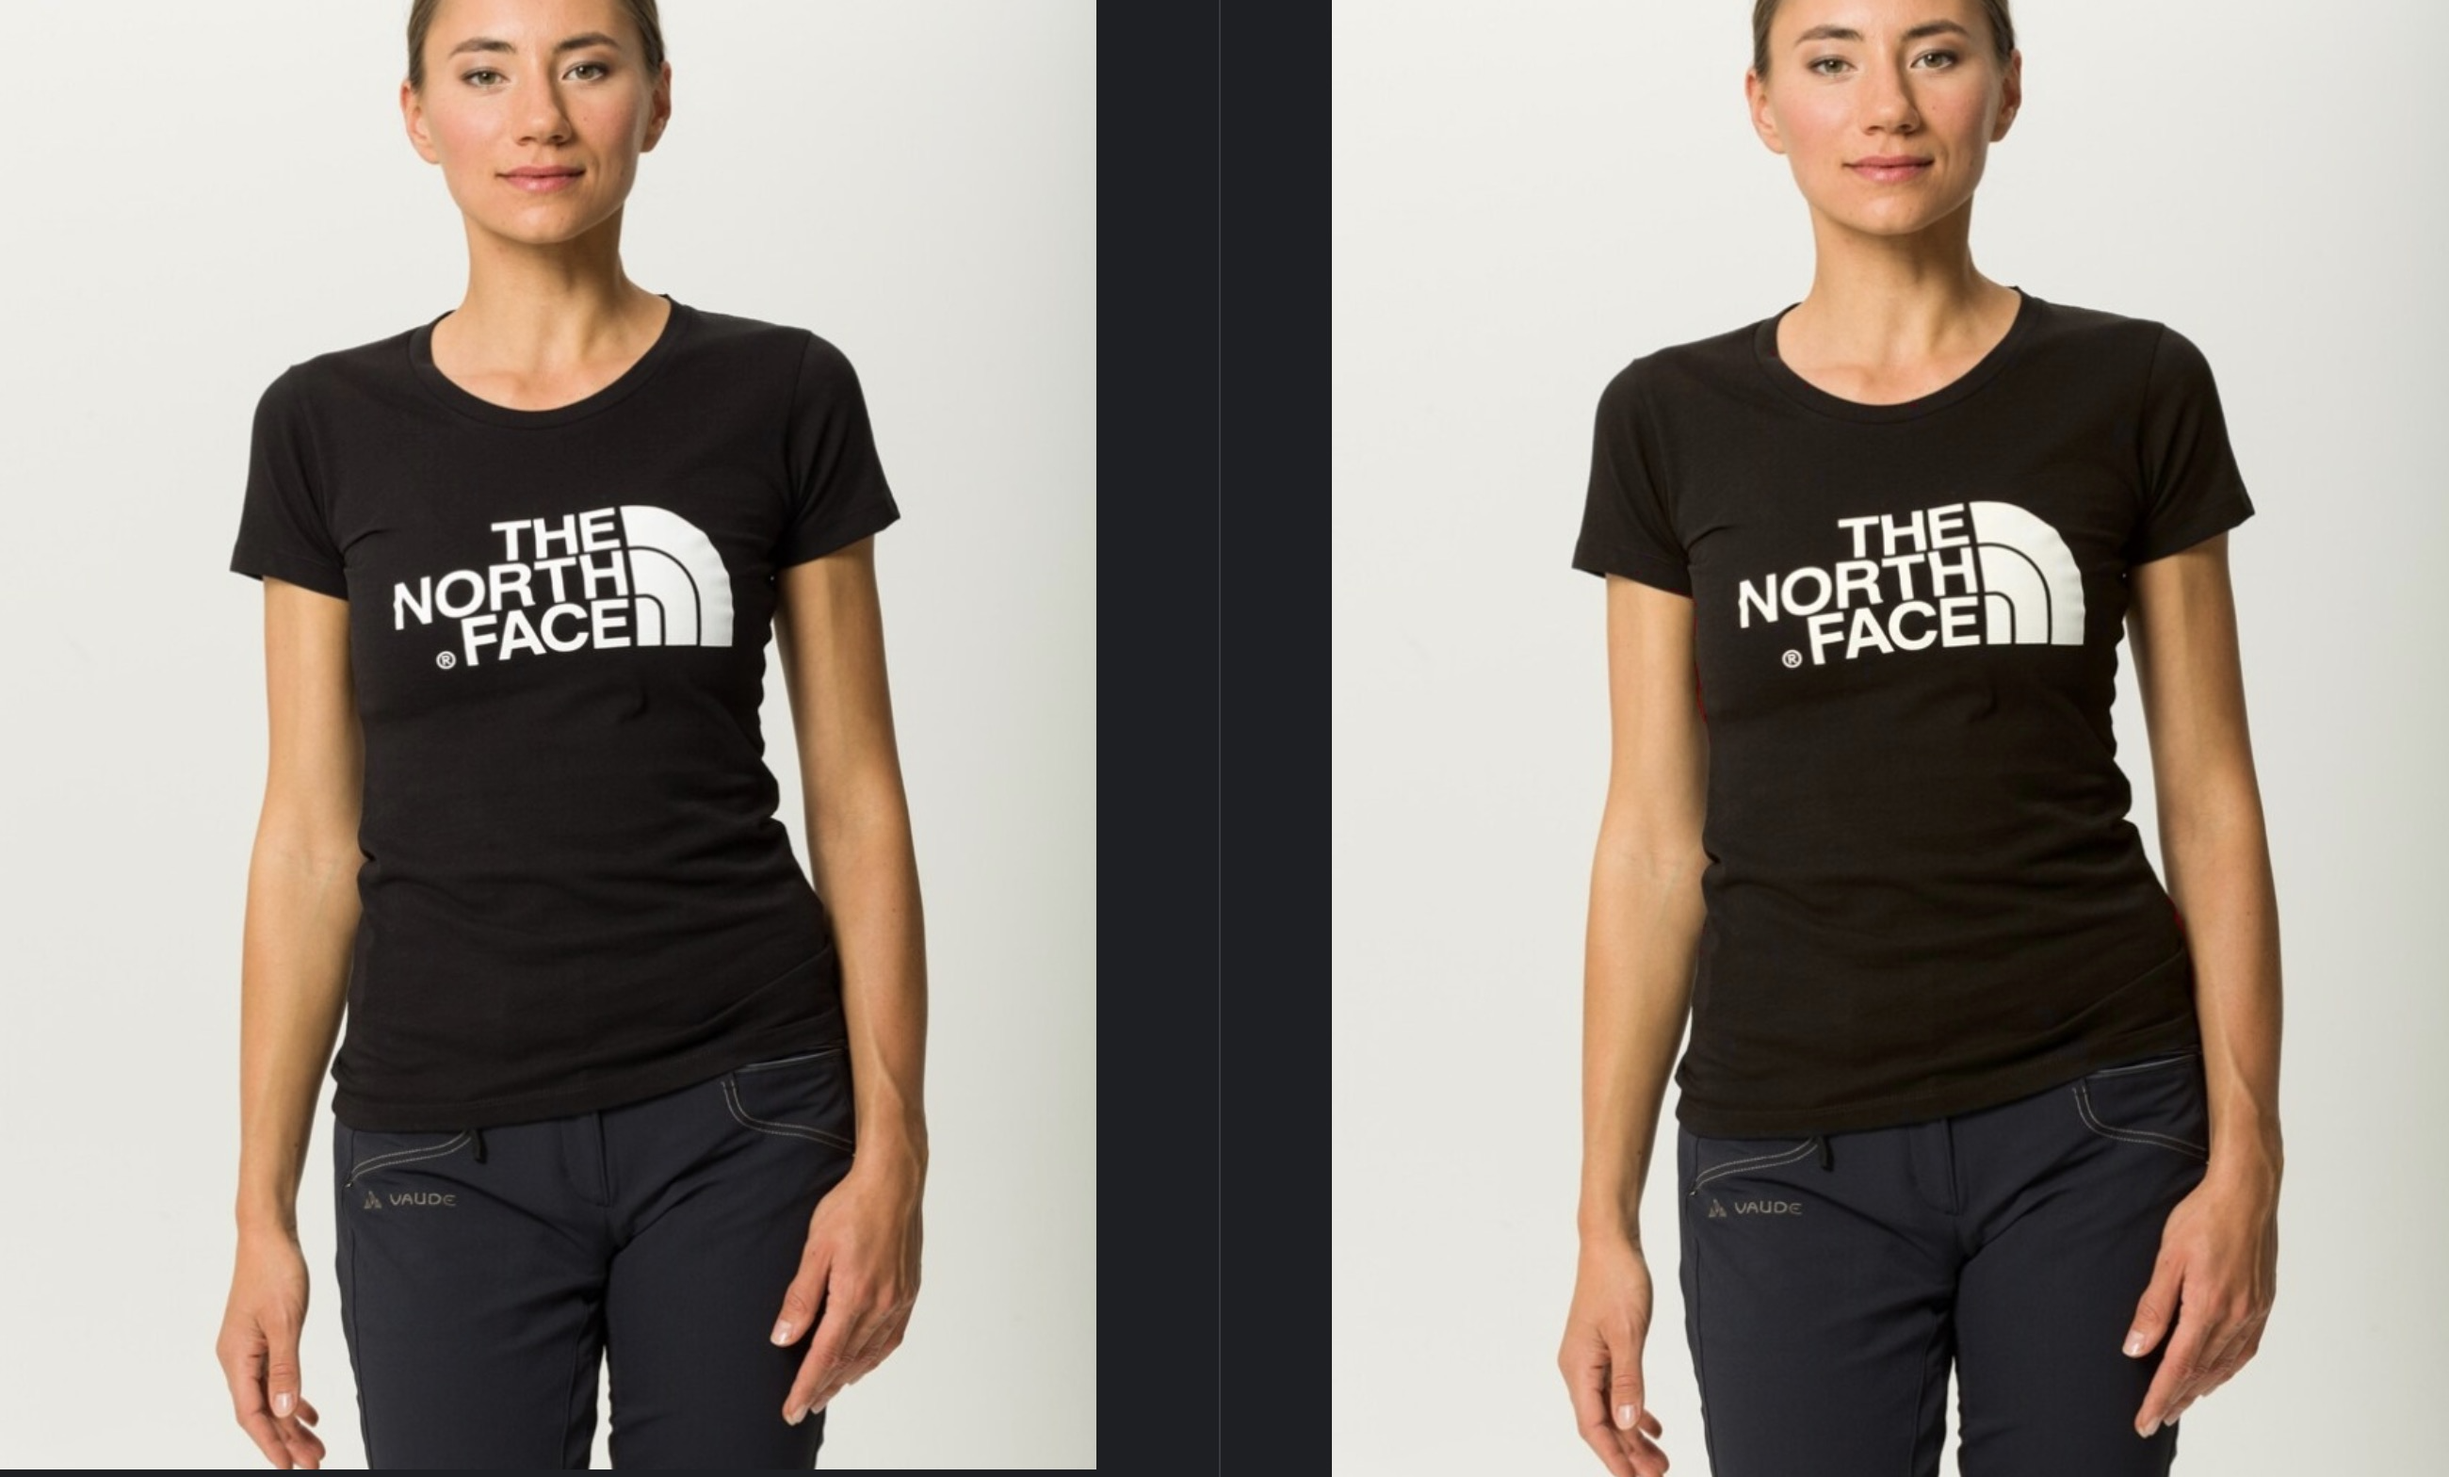
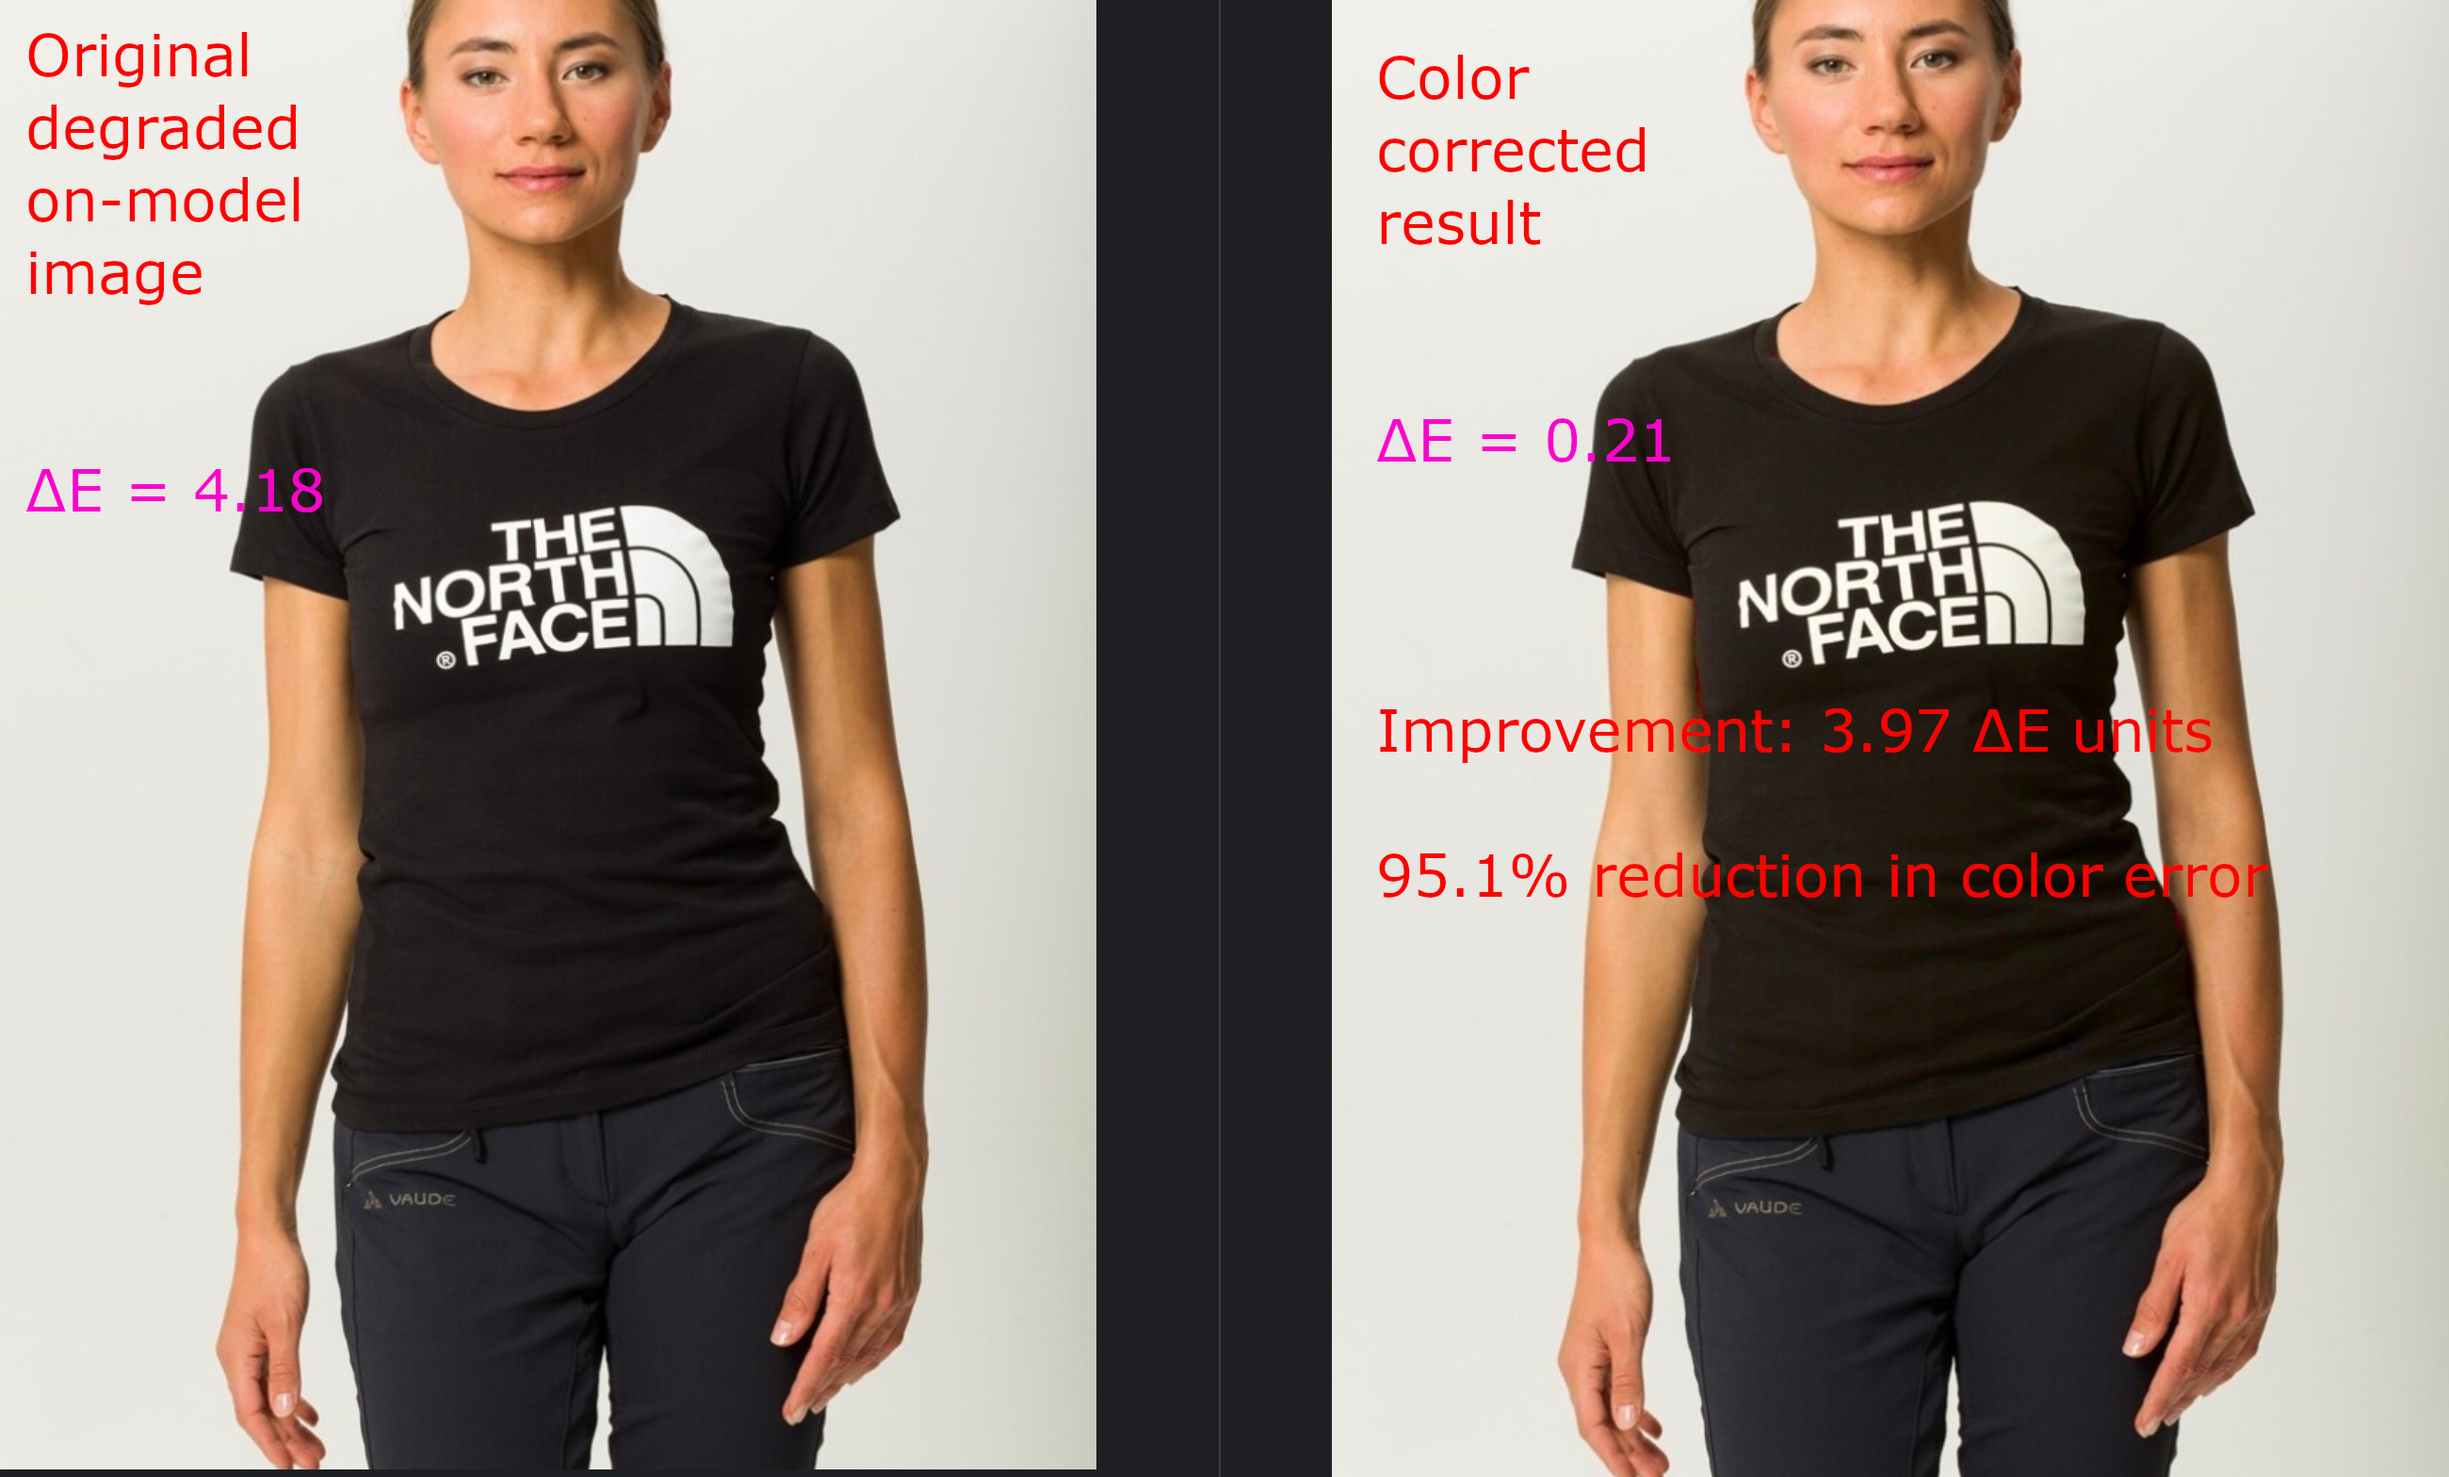
docs

diff --git a/README.md b/README.md
@@ -187,6 +187,12 @@ Summary: Average improvement of 46% across all images
 *SCI spatial heatmap: Green=excellent, Yellow=good, Orange=acceptable, Red=poor correction*
 
 #### Before/After Comparison
+<img src="docs/images/before_after_comparison.png" alt="Before/After Comparison">
+*Before/After Comparison 
+Left: Original degraded on-model image (ΔE = 4.18)  
+Right: Color-corrected result (ΔE = 0.21)  
+Improvement: 3.97 ΔE units (95.1% reduction in color error)*
+
 
 #### Console output
 ![Console Output](docs/images/console_output.png)
